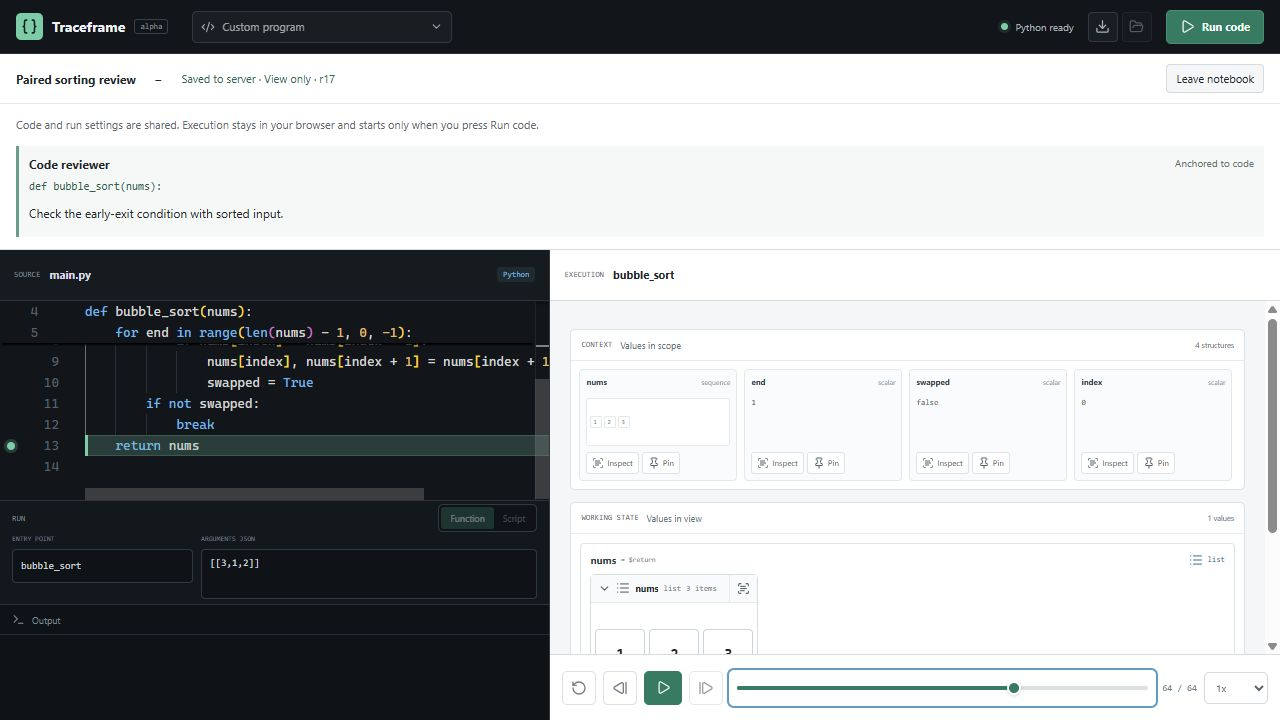
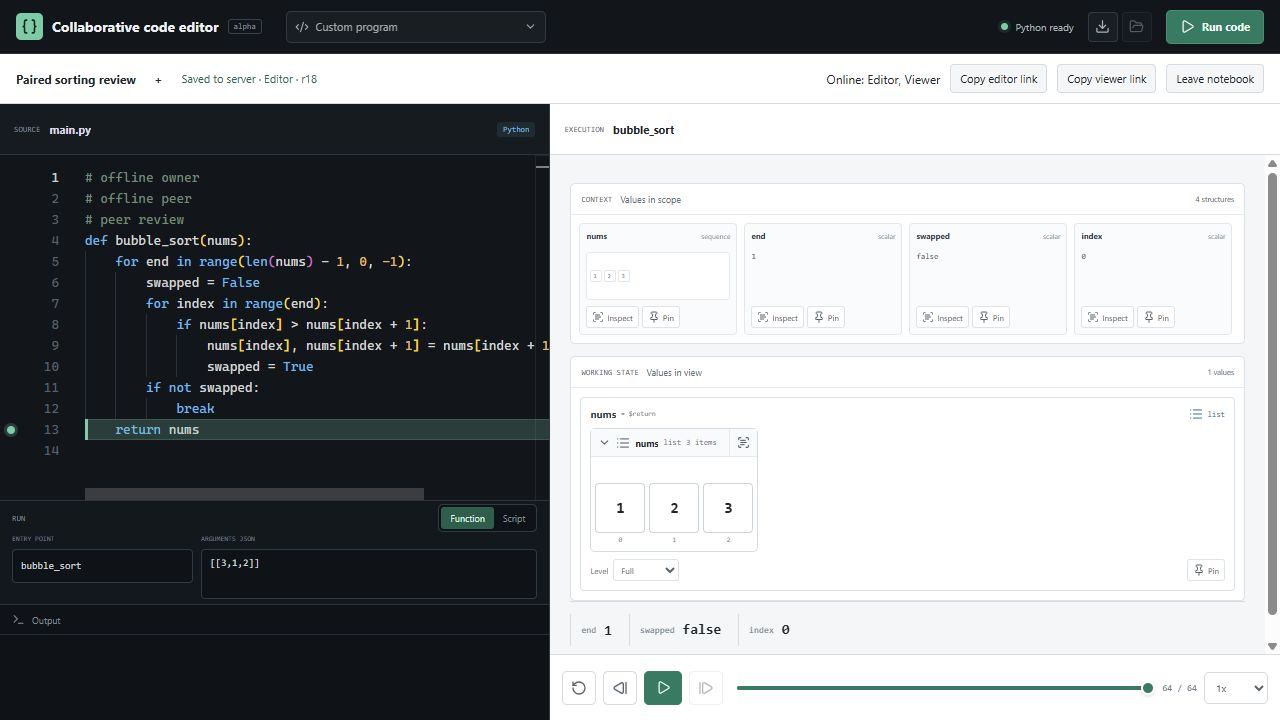
Use descriptive editor name and refresh verified screenshot

diff --git a/apps/playground/src/notebook/client.test.ts b/apps/playground/src/notebook/client.test.ts
@@ -107,7 +107,7 @@ it("keeps online sessions separate from document revisions and ignores stale soc
   client.reconnect();
   const current = Socket.instances.at(-1)!;
   current.onopen?.();
-  stale.receive({ type: "presence", sessions: [] });
+  stale.receive({ type: "presence", sessions: [{ sessionId: "stale-session", role: "view" }] });
   expect(client.state.presence).toEqual([]);
   current.receive({
     type: "presence",

diff --git a/apps/playground/src/App.tsx b/apps/playground/src/App.tsx
@@ -593,7 +593,7 @@ export default function App() {
           <span className="brand-mark">
             <Braces size={17} strokeWidth={2.2} aria-hidden="true" />
           </span>
-          <strong>Traceframe</strong>
+          <strong>Collaborative code editor</strong>
           <span className="build-tag">alpha</span>
         </div>
 

diff --git a/apps/playground/index.html b/apps/playground/index.html
@@ -4,7 +4,7 @@
     <meta charset="UTF-8" />
     <meta name="viewport" content="width=device-width, initial-scale=1.0" />
     <meta name="theme-color" content="#11161b" />
-    <title>Traceframe</title>
+    <title>Collaborative code editor</title>
   </head>
   <body>
     <div id="root"></div>

diff --git a/README.md b/README.md
@@ -1,4 +1,4 @@
-# Collaborative code editor (Traceframe)
+# Collaborative code editor
 
 Traceframe is an interactive execution visualizer. It runs Python in a browser worker, records
 versioned runtime state, compiles that state through generic projection rules, and synchronizes
